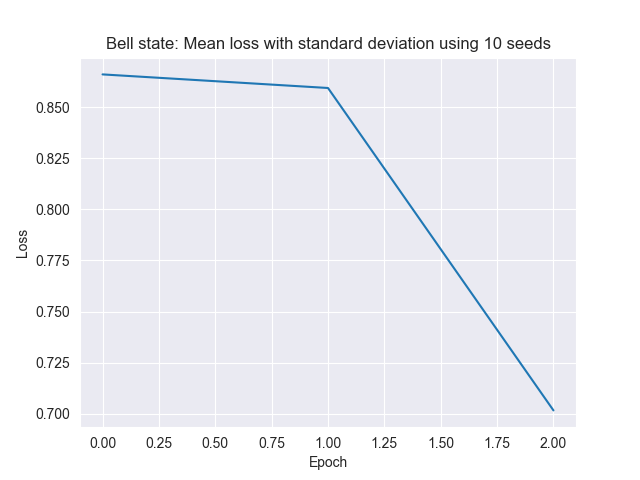
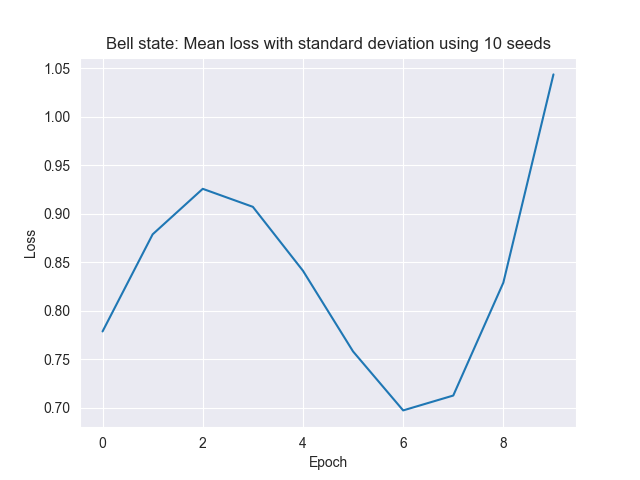
hmmmm

diff --git a/varQITE.py b/varQITE.py
@@ -250,7 +250,9 @@ class varQITE:
                     """
 
                     for lmb in range(len(lambdas_list)):
+                        #model_R = Ridge(alpha=lambdas_list[lmb])
                         model_R = Ridge(alpha=lambdas_list[lmb])
+
                         model_R.fit(A_mat, C_vec)
                         omega_derivative_temp=model_R.coef_
                         loss_temp=mean_squared_error(C_vec,A_mat@omega_derivative_temp)
@@ -877,7 +879,7 @@ class varQITE:
 
         dA=np.zeros((len(self.hamil), len(self.rot_indexes), len(self.rot_indexes)))
 
-        da_run=time.time()
+        #da_run=time.time()
         for p_da in range(len(self.rot_indexes)):
             for q_da in range(len(self.rot_indexes)):
                 for s_da in range(len(self.rot_indexes)):
@@ -886,7 +888,7 @@ class varQITE:
         #print(f'Time to run dA circs{time.time()-da_run}')
 
         #TODO: slice this, but it uses very little time to compute
-        da_compute=time.time()
+        #da_compute=time.time()
         for i in range(len(self.hamil)):
             for p in range(len(self.rot_indexes)):
                 for q in range(len(self.rot_indexes)):
@@ -904,7 +906,7 @@ class varQITE:
 
         for j_p in range(len(self.rot_indexes)):
             #TODO- is the same?
-            dC_i[j_p]+=-0.5*run_circuit(self.C_init[i_th][j_p].\
+            dC_i[j_p]-=0.5*run_circuit(self.C_init[i_th][j_p].\
             bind_parameters(binding_values[self.rot_indexes][:len(self.C_init[i_th][j_p].parameters)]))
             
             for i_dc in range(len(self.hamil)):
@@ -913,6 +915,8 @@ class varQITE:
                     term2_temp=run_circuit(self.dC_init[i_dc][j_p][s_dc][1].bind_parameters(binding_values[self.rot_indexes][:len(self.dC_init[i_dc][j_p][s_dc][1].parameters)]))
                     dC_i[j_p]+=0.25*self.hamil[i_dc][0][0]*self.dwdth[i_th][s_dc]*(term1_temp+term2_temp)
         
+        #print(dC_i)
+
         return dC_i
 
     def init_dA(self,pp, ss, qq, type_circ):

diff --git a/main.py b/main.py
@@ -595,7 +595,7 @@ def learningrate_investigation(n_sims, initial_H, ans, epochs, target_data,opt_m
 
 def main():
     #np.random.seed(1357)
-    np.random.seed(2022)
+    np.random.seed(9999)
 
     number_of_seeds=10
     learningRate=0.1
@@ -632,7 +632,7 @@ def main():
     #learningrate_investigation(number_of_seeds, Ham1, ansatz1, epochs, p_data1, optimizing_method,l_r=0.01, steps=ite_steps, name='09')
     #learningrate_investigation(number_of_seeds, Ham1, ansatz1, epochs, p_data1, optimizing_method,l_r=0.005, steps=ite_steps, name='09')
     #learningrate_investigation(number_of_seeds, Ham1, ansatz1, epochs, p_data1, optimizing_method,l_r=0.002, steps=ite_steps, name='09')
-    #multiple_simulations(1, Ham1, ansatz1, 1, p_data1, optimizing_method,l_r=0.01, steps=ite_steps)
+    multiple_simulations(1, Ham1, ansatz1, 10, p_data1, optimizing_method,l_r=0.1, steps=ite_steps)
     #multiple_simulations(number_of_seeds, Ham1, ansatz1, epochs, p_data1, optimizing_method,l_r=0.005, steps=ite_steps)
     #multiple_simulations(number_of_seeds, Ham1, ansatz1, epochs, p_data1, optimizing_method,l_r=0.002, steps=ite_steps)
 
@@ -644,7 +644,7 @@ def main():
     end_time=time.time()
     print(f'Final time: {end_time-start}')
 
-    plot_fidelity(10)#, 'fidelity_H1_H2_new_0_001minC')
+    #plot_fidelity(10)#, 'fidelity_H1_H2_new_0_001minC')
     #find_best_alpha(10, np.logspace(-4,1,5))
 
 

diff --git a/optimize_loss.py b/optimize_loss.py
@@ -43,7 +43,7 @@ class optimize:
 
     # gradient descent algorithm with adam
     #def adam(self, x, g, beta1=0.9, beta2=0.999, eps=1e-8):
-    def adam(self, x, g, beta1=0.99, beta2=0.999, eps=1e-8):
+    def adam(self, x, g, beta1=0.7, beta2=0.99, eps=1e-8):
         """
         I guess something like this should work?
         
@@ -62,8 +62,13 @@ class optimize:
         print(f'g: {g}')
         
         if self.method=='Amsgrad':
+
+            a_t = self.learning_rate*np.sqrt(1-beta2**self.t)/(1-beta1**self.t)
+            print(self.learning_rate)
+            #a_t=self.learning_rate
             self.vhat=np.maximum(self.vhat, self.v)
-            x -= np.divide(self.learning_rate*mhat, np.sqrt(self.vhat) + eps)
+            x -= np.divide(a_t*mhat, np.sqrt(self.vhat) + eps)
+            
             print(f'Change in param: {-np.divide(self.learning_rate*mhat, np.sqrt(self.vhat) + eps)}')
             print(f'Parameters in adam: m_hat:{mhat} vhat which will be divided upon: {np.sqrt(self.vhat)}') 
 
